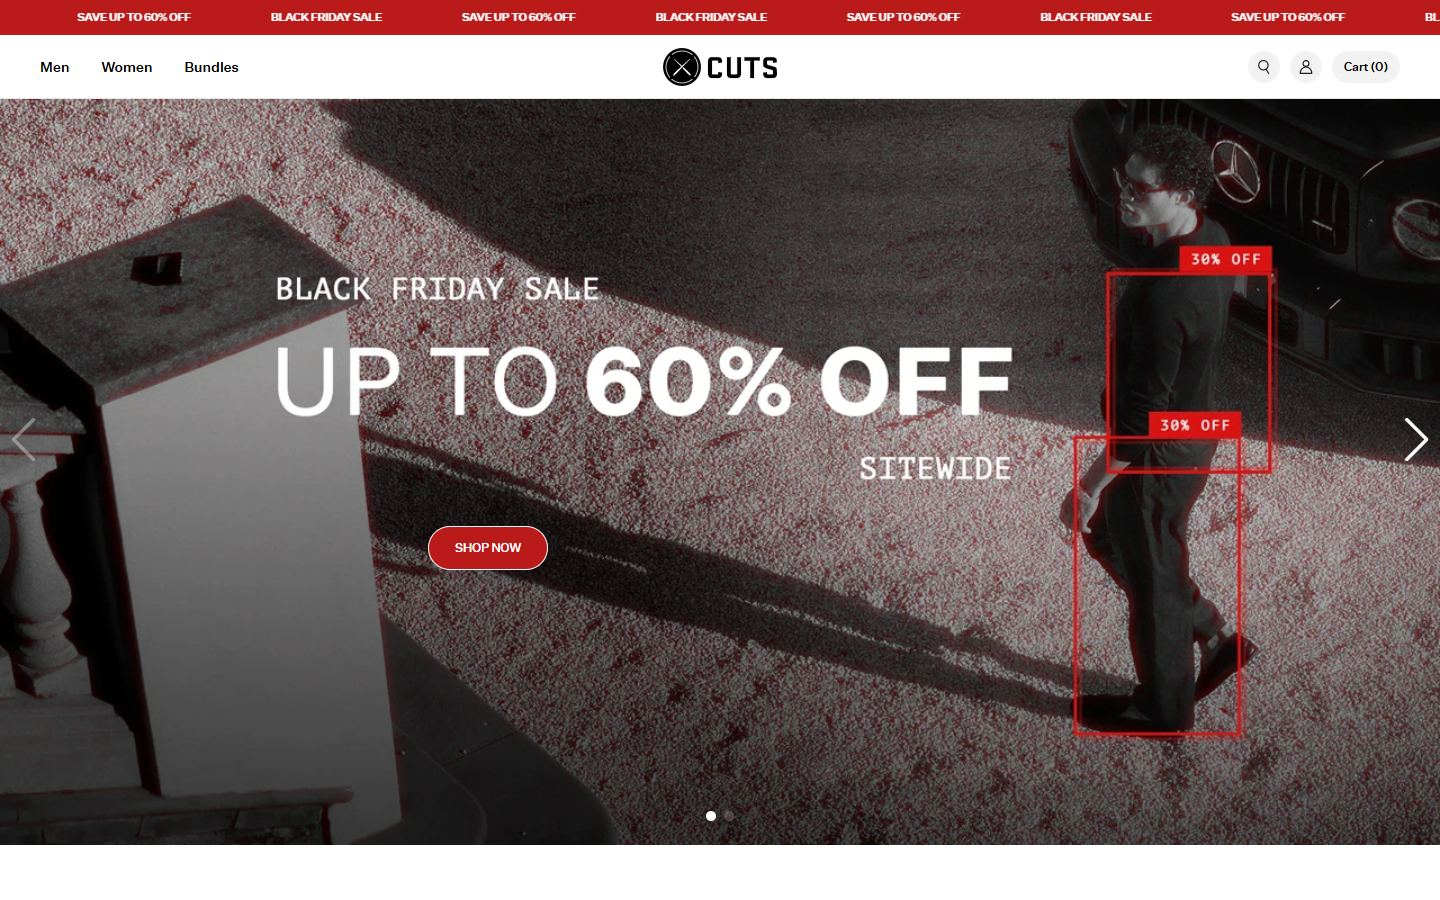
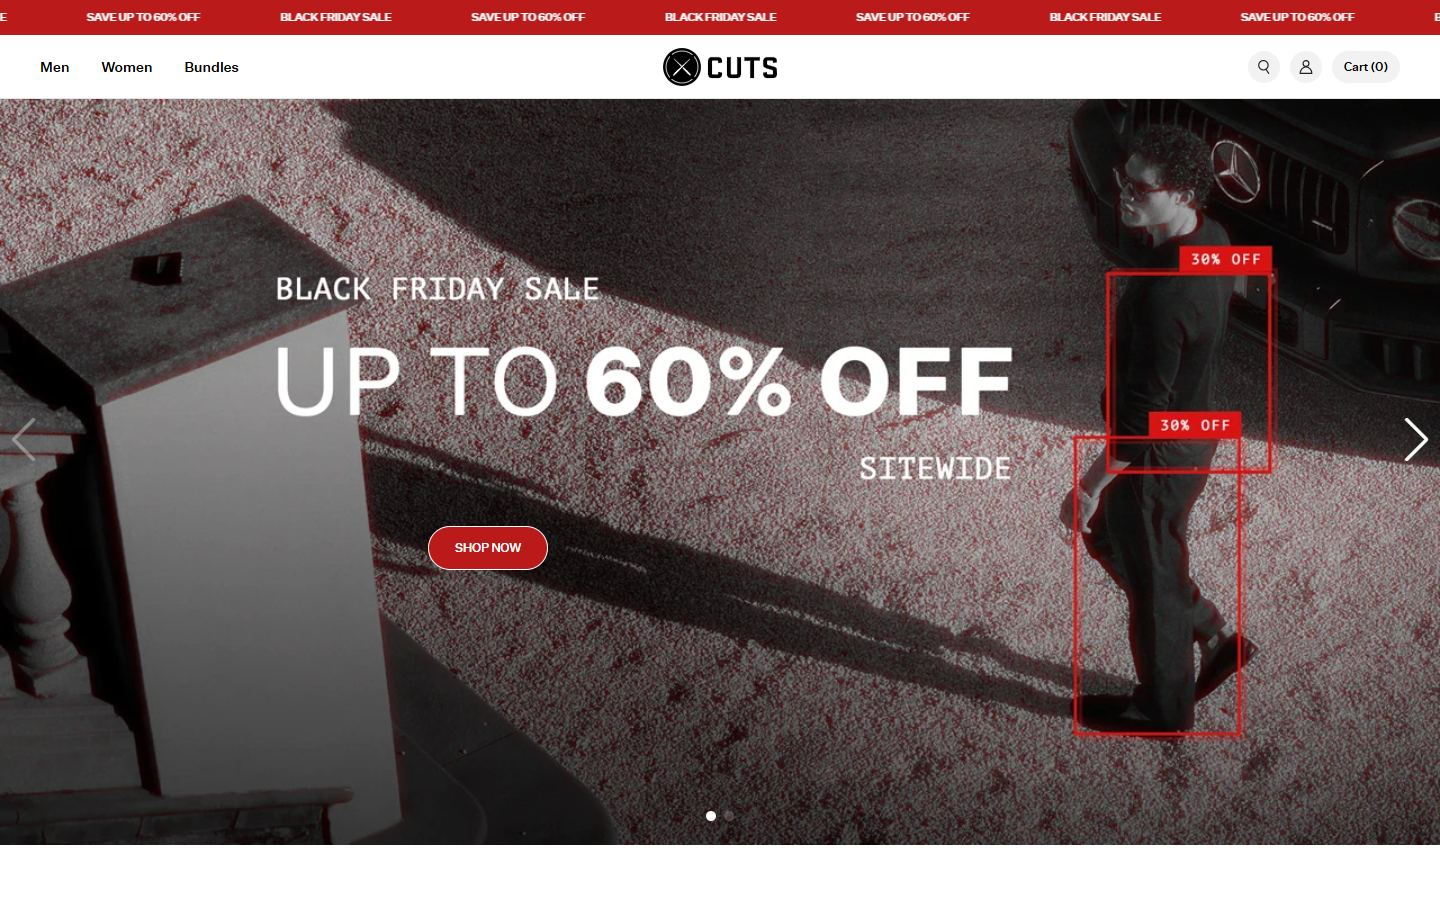
Publish 3 live forensic audit teaser(s)

diff --git a/audits/pactcoffee-com.html b/audits/pactcoffee-com.html
@@ -1,0 +1,79 @@
+<!DOCTYPE html>
+<html lang="en">
+<head>
+  <meta charset="UTF-8" />
+  <meta name="viewport" content="width=device-width, initial-scale=1.0" />
+  <title>Forensic Audit Teaser: pactcoffee.com | NordForge AI Studio</title>
+  <meta name="description" content="Measured Chromium Playwright forensic conversion &amp; speed audit for pactcoffee.com." />
+  <link rel="stylesheet" href="../styles.css" />
+</head>
+<body class="audit-page">
+  <div class="audit-wrap">
+    <div class="audit-nav">
+      <a class="audit-brand-link" href="../index.html">&larr; NordForge AI Studio</a>
+      <span class="audit-badge">Live Chromium Telemetry Audit &bull; 2026-11-22</span>
+    </div>
+
+    <div class="bfcm-alert">
+      <strong>Peak-Traffic Readiness Alert:</strong> Flagged on <code>pactcoffee.com</code> &mdash; 74 external scripts. Fix these leaks before peak holiday traffic hits mobile checkout.
+    </div>
+
+    <h1 class="audit-title">Forensic Conversion &amp; Speed Audit: pactcoffee.com</h1>
+    <p class="audit-subtitle">Target URL: <a href="https://www.pactcoffee.com/" target="_blank" rel="noopener">https://www.pactcoffee.com/</a> &bull; HTTP 200 &bull; Readiness Score: <strong class="audit-score">67/100</strong></p>
+
+    <div class="audit-stats-grid">
+      <div class="audit-stat"><div class="audit-stat-k">DOM Content Loaded</div><div class="audit-stat-v">1211 ms</div></div>
+      <div class="audit-stat"><div class="audit-stat-k">External Scripts</div><div class="audit-stat-v">74</div></div>
+      <div class="audit-stat"><div class="audit-stat-k">3rd-Party Hosts</div><div class="audit-stat-v">33</div></div>
+      <div class="audit-stat"><div class="audit-stat-k">Measured Payload</div><div class="audit-stat-v">5397 KB</div></div>
+      <div class="audit-stat"><div class="audit-stat-k">JSON-LD Schemas</div><div class="audit-stat-v">1</div></div>
+      <div class="audit-stat"><div class="audit-stat-k">Broken / No-Alt Imgs</div><div class="audit-stat-v">0 / 16</div></div>
+      <div class="audit-stat"><div class="audit-stat-k">Mobile Overflow (390px)</div><div class="audit-stat-v">0 px</div></div>
+      <div class="audit-stat"><div class="audit-stat-k">Stack Detected</div><div class="audit-stat-v">Web/DTC</div></div>
+    </div>
+
+    <div class="audit-card">
+      <h2 class="audit-card-title">Top 3 Verified Findings (Measured in Chromium)</h2>
+      <ol class="audit-findings-list">
+        <li>Script &amp; Third-Party Bloat: Measured 74 external scripts across 33 third-party domains (5397 KB transferred), extending DOM load to 1211 ms.</li>
+        <li>Media &amp; Accessibility Gaps: 0 broken image(s) (naturalWidth=0) and 16 image(s) without descriptive alt text detected across 57 DOM images.</li>
+        <li>Render Timing Opportunity: TTFB measured at 375 ms with 1211 ms full load; deferring non-critical embeds and hardening canonical/schema tags reduces checkout drop-off.</li>
+      </ol>
+      <p class="audit-quickwin"><strong>Fastest Engineering Win:</strong> Defer or inline static.hotjar.com, script.hotjar.com and verify Product/Organization JSON-LD + image alt tags.</p>
+    </div>
+
+    <div class="audit-card">
+      <h2 class="audit-card-title">Free Instant Copy-Paste Patch #1 (Yours Free)</h2>
+      <p class="audit-quickwin">Apply this verified snippet right away &mdash; zero strings attached:</p>
+      <pre class="code-preview"><code>/* Free Instant Fix #1 for pactcoffee.com: Safe image &amp; CLS guard */
+img { max-width: 100%; height: auto; }
+/* Audit heavy scripts (74 detected) and move non-critical embeds to defer */</code></pre>
+    </div>
+
+    <div class="audit-card">
+      <h2 class="audit-card-title">Captured Live Viewport Evidence</h2>
+      <div class="audit-shots">
+        <div>
+          <div class="audit-shot-label">Desktop (1440&times;900)</div>
+          <img class="audit-shot-img" src="../assets/pactcoffee-com-desktop.jpg" alt="pactcoffee.com desktop capture" />
+        </div>
+        <div>
+          <div class="audit-shot-label">Mobile (390&times;844)</div>
+          <img class="audit-shot-img" src="../assets/pactcoffee-com-mobile.jpg" alt="pactcoffee.com mobile capture" />
+        </div>
+      </div>
+    </div>
+
+    <div class="audit-cta-box">
+      <h2 class="audit-card-title">Fix pactcoffee.com Today &mdash; Instant Stripe Delivery</h2>
+      <p class="audit-cta-copy">Start with the <strong>$9 Emergency Quick-Win Pack</strong> (instant ZIP in &lt;60 seconds), replace slow monthly apps with our <strong>$29 Native Liquid Kit</strong>, or get the custom <strong>$49 40-Point Fix Pack</strong> built specifically for pactcoffee.com. 14-day honest refund guarantee.</p>
+      <div class="audit-cta-btns">
+        <a class="audit-btn audit-btn-p" href="https://buy.stripe.com/7sYfZggMbcxL6f4gw2cs81o" target="_blank" rel="noopener">Get $9 Quick-Win Pack (Instant) &rarr;</a>
+        <a class="audit-btn audit-btn-o" href="https://buy.stripe.com/28E4gy2Vl41ffPEdjQcs81i" target="_blank" rel="noopener">DIY Shopify Liquid CRO Kit ($29)</a>
+        <a class="audit-btn audit-btn-o" href="https://buy.stripe.com/3cI00i67x69n7j893Acs81l" target="_blank" rel="noopener">Custom 40-Point Fix Pack ($49)</a>
+        <a class="audit-btn audit-btn-o" href="https://buy.stripe.com/bJe5kC2VlbtHgTIbbIcs81m" target="_blank" rel="noopener">Done-For-You 48h Rescue ($199)</a>
+      </div>
+    </div>
+  </div>
+</body>
+</html>

diff --git a/audits/nativecos-com.html b/audits/nativecos-com.html
@@ -15,19 +15,19 @@
     </div>
 
     <div class="bfcm-alert">
-      <strong>Peak-Traffic Readiness Alert:</strong> Flagged on <code>nativecos.com</code> &mdash; 1 broken DOM image(s) • 57 external scripts • 3421ms DOM load. Fix these leaks before peak holiday traffic hits mobile checkout.
+      <strong>Peak-Traffic Readiness Alert:</strong> Flagged on <code>nativecos.com</code> &mdash; 7 broken DOM image(s) • 61 external scripts • 2819ms DOM load. Fix these leaks before peak holiday traffic hits mobile checkout.
     </div>
 
     <h1 class="audit-title">Forensic Conversion &amp; Speed Audit: nativecos.com</h1>
-    <p class="audit-subtitle">Target URL: <a href="https://www.nativecos.com/" target="_blank" rel="noopener">https://www.nativecos.com/</a> &bull; HTTP 200 &bull; Readiness Score: <strong class="audit-score">61/100</strong></p>
+    <p class="audit-subtitle">Target URL: <a href="https://www.nativecos.com/" target="_blank" rel="noopener">https://www.nativecos.com/</a> &bull; HTTP 200 &bull; Readiness Score: <strong class="audit-score">42/100</strong></p>
 
     <div class="audit-stats-grid">
-      <div class="audit-stat"><div class="audit-stat-k">DOM Content Loaded</div><div class="audit-stat-v">3421 ms</div></div>
-      <div class="audit-stat"><div class="audit-stat-k">External Scripts</div><div class="audit-stat-v">57</div></div>
-      <div class="audit-stat"><div class="audit-stat-k">3rd-Party Hosts</div><div class="audit-stat-v">51</div></div>
-      <div class="audit-stat"><div class="audit-stat-k">Measured Payload</div><div class="audit-stat-v">23853 KB</div></div>
+      <div class="audit-stat"><div class="audit-stat-k">DOM Content Loaded</div><div class="audit-stat-v">2819 ms</div></div>
+      <div class="audit-stat"><div class="audit-stat-k">External Scripts</div><div class="audit-stat-v">61</div></div>
+      <div class="audit-stat"><div class="audit-stat-k">3rd-Party Hosts</div><div class="audit-stat-v">52</div></div>
+      <div class="audit-stat"><div class="audit-stat-k">Measured Payload</div><div class="audit-stat-v">28333 KB</div></div>
       <div class="audit-stat"><div class="audit-stat-k">JSON-LD Schemas</div><div class="audit-stat-v">1</div></div>
-      <div class="audit-stat"><div class="audit-stat-k">Broken / No-Alt Imgs</div><div class="audit-stat-v">1 / 37</div></div>
+      <div class="audit-stat"><div class="audit-stat-k">Broken / No-Alt Imgs</div><div class="audit-stat-v">7 / 37</div></div>
       <div class="audit-stat"><div class="audit-stat-k">Mobile Overflow (390px)</div><div class="audit-stat-v">0 px</div></div>
       <div class="audit-stat"><div class="audit-stat-k">Stack Detected</div><div class="audit-stat-v">Shopify</div></div>
     </div>
@@ -35,11 +35,11 @@
     <div class="audit-card">
       <h2 class="audit-card-title">Top 3 Verified Findings (Measured in Chromium)</h2>
       <ol class="audit-findings-list">
-        <li>Script &amp; Third-Party Bloat: Measured 57 external scripts across 51 third-party domains (23853 KB transferred), extending DOM load to 3421 ms.</li>
-        <li>Media &amp; Accessibility Gaps: 1 broken image(s) (naturalWidth=0) and 37 image(s) without descriptive alt text detected across 134 DOM images.</li>
-        <li>Render Timing Opportunity: TTFB measured at 262 ms with 3421 ms full load; deferring non-critical embeds and hardening canonical/schema tags reduces checkout drop-off.</li>
+        <li>Script &amp; Third-Party Bloat: Measured 61 external scripts across 52 third-party domains (28333 KB transferred), extending DOM load to 2819 ms.</li>
+        <li>Media &amp; Accessibility Gaps: 7 broken image(s) (naturalWidth=0) and 37 image(s) without descriptive alt text detected across 134 DOM images.</li>
+        <li>Render Timing Opportunity: TTFB measured at 257 ms with 5406 ms full load; deferring non-critical embeds and hardening canonical/schema tags reduces checkout drop-off.</li>
       </ol>
-      <p class="audit-quickwin"><strong>Fastest Engineering Win:</strong> Defer or inline cdn-widgetsrepository.yotpo.com and verify Product/Organization JSON-LD + image alt tags.</p>
+      <p class="audit-quickwin"><strong>Fastest Engineering Win:</strong> Defer or inline static.rechargecdn.com, cdn-widgetsrepository.yotpo.com and verify Product/Organization JSON-LD + image alt tags.</p>
     </div>
 
     <div class="audit-card">
@@ -47,7 +47,7 @@
       <p class="audit-quickwin">Apply this verified snippet right away &mdash; zero strings attached:</p>
       <pre class="code-preview"><code>/* Free Instant Fix #1 for nativecos.com: Safe image &amp; CLS guard */
 img { max-width: 100%; height: auto; }
-/* Audit heavy scripts (57 detected) and move non-critical embeds to defer */</code></pre>
+/* Audit heavy scripts (61 detected) and move non-critical embeds to defer */</code></pre>
     </div>
 
     <div class="audit-card">

diff --git a/audits/cutsclothing-com.html b/audits/cutsclothing-com.html
@@ -15,19 +15,19 @@
     </div>
 
     <div class="bfcm-alert">
-      <strong>Peak-Traffic Readiness Alert:</strong> Flagged on <code>cutsclothing.com</code> &mdash; 56 external scripts • 2133ms DOM load. Fix these leaks before peak holiday traffic hits mobile checkout.
+      <strong>Peak-Traffic Readiness Alert:</strong> Flagged on <code>cutsclothing.com</code> &mdash; 64 external scripts. Fix these leaks before peak holiday traffic hits mobile checkout.
     </div>
 
     <h1 class="audit-title">Forensic Conversion &amp; Speed Audit: cutsclothing.com</h1>
     <p class="audit-subtitle">Target URL: <a href="https://www.cutsclothing.com/en-no/" target="_blank" rel="noopener">https://www.cutsclothing.com/en-no/</a> &bull; HTTP 200 &bull; Readiness Score: <strong class="audit-score">67/100</strong></p>
 
     <div class="audit-stats-grid">
-      <div class="audit-stat"><div class="audit-stat-k">DOM Content Loaded</div><div class="audit-stat-v">2133 ms</div></div>
-      <div class="audit-stat"><div class="audit-stat-k">External Scripts</div><div class="audit-stat-v">56</div></div>
-      <div class="audit-stat"><div class="audit-stat-k">3rd-Party Hosts</div><div class="audit-stat-v">60</div></div>
-      <div class="audit-stat"><div class="audit-stat-k">Measured Payload</div><div class="audit-stat-v">56023 KB</div></div>
+      <div class="audit-stat"><div class="audit-stat-k">DOM Content Loaded</div><div class="audit-stat-v">1857 ms</div></div>
+      <div class="audit-stat"><div class="audit-stat-k">External Scripts</div><div class="audit-stat-v">64</div></div>
+      <div class="audit-stat"><div class="audit-stat-k">3rd-Party Hosts</div><div class="audit-stat-v">55</div></div>
+      <div class="audit-stat"><div class="audit-stat-k">Measured Payload</div><div class="audit-stat-v">108095 KB</div></div>
       <div class="audit-stat"><div class="audit-stat-k">JSON-LD Schemas</div><div class="audit-stat-v">2</div></div>
-      <div class="audit-stat"><div class="audit-stat-k">Broken / No-Alt Imgs</div><div class="audit-stat-v">0 / 1</div></div>
+      <div class="audit-stat"><div class="audit-stat-k">Broken / No-Alt Imgs</div><div class="audit-stat-v">0 / 0</div></div>
       <div class="audit-stat"><div class="audit-stat-k">Mobile Overflow (390px)</div><div class="audit-stat-v">0 px</div></div>
       <div class="audit-stat"><div class="audit-stat-k">Stack Detected</div><div class="audit-stat-v">Shopify</div></div>
     </div>
@@ -35,9 +35,9 @@
     <div class="audit-card">
       <h2 class="audit-card-title">Top 3 Verified Findings (Measured in Chromium)</h2>
       <ol class="audit-findings-list">
-        <li>Script &amp; Third-Party Bloat: Measured 56 external scripts across 60 third-party domains (56023 KB transferred), extending DOM load to 2133 ms.</li>
-        <li>Render Timing Opportunity: TTFB measured at 770 ms with 2133 ms full load; deferring non-critical embeds and hardening canonical/schema tags reduces checkout drop-off.</li>
-        <li>Render Timing Opportunity: TTFB measured at 770 ms with 2133 ms full load; deferring non-critical embeds and hardening canonical/schema tags reduces checkout drop-off.</li>
+        <li>Script &amp; Third-Party Bloat: Measured 64 external scripts across 55 third-party domains (108095 KB transferred), extending DOM load to 1857 ms.</li>
+        <li>Render Timing Opportunity: TTFB measured at 791 ms with 1857 ms full load; deferring non-critical embeds and hardening canonical/schema tags reduces checkout drop-off.</li>
+        <li>Render Timing Opportunity: TTFB measured at 791 ms with 1857 ms full load; deferring non-critical embeds and hardening canonical/schema tags reduces checkout drop-off.</li>
       </ol>
       <p class="audit-quickwin"><strong>Fastest Engineering Win:</strong> Defer or inline static-tracking.klaviyo.com, static.klaviyo.com and verify Product/Organization JSON-LD + image alt tags.</p>
     </div>
@@ -47,7 +47,7 @@
       <p class="audit-quickwin">Apply this verified snippet right away &mdash; zero strings attached:</p>
       <pre class="code-preview"><code>/* Free Instant Fix #1 for cutsclothing.com: Safe image &amp; CLS guard */
 img { max-width: 100%; height: auto; }
-/* Audit heavy scripts (56 detected) and move non-critical embeds to defer */</code></pre>
+/* Audit heavy scripts (64 detected) and move non-critical embeds to defer */</code></pre>
     </div>
 
     <div class="audit-card">

diff --git a/index.html b/index.html
@@ -373,6 +373,36 @@ html, body { max-width: 100%; overflow-x: clip; }
         <!-- LIVE_AUDITS_START -->
         <div class="audit-item">
           <div class="audit-item-head">
+            <strong>pactcoffee.com</strong>
+            <span class="tag">67/100</span>
+          </div>
+          <p class="audit-item-meta">
+            DOM 1211ms &bull; 74 scripts &bull; 5397 KB &bull; 1 schemas
+          </p>
+          <a class="audit-item-link" href="audits/pactcoffee-com.html">Inspect Live Teaser &rarr;</a>
+        </div>
+        <div class="audit-item">
+          <div class="audit-item-head">
+            <strong>nativecos.com</strong>
+            <span class="tag">42/100</span>
+          </div>
+          <p class="audit-item-meta">
+            DOM 2819ms &bull; 61 scripts &bull; 28333 KB &bull; 1 schemas
+          </p>
+          <a class="audit-item-link" href="audits/nativecos-com.html">Inspect Live Teaser &rarr;</a>
+        </div>
+        <div class="audit-item">
+          <div class="audit-item-head">
+            <strong>cutsclothing.com</strong>
+            <span class="tag">67/100</span>
+          </div>
+          <p class="audit-item-meta">
+            DOM 1857ms &bull; 64 scripts &bull; 108095 KB &bull; 2 schemas
+          </p>
+          <a class="audit-item-link" href="audits/cutsclothing-com.html">Inspect Live Teaser &rarr;</a>
+        </div>
+        <div class="audit-item">
+          <div class="audit-item-head">
             <strong>byltbasics.com</strong>
             <span class="tag">84/100</span>
           </div>
@@ -400,36 +430,6 @@ html, body { max-width: 100%; overflow-x: clip; }
             DOM 2022ms &bull; 63 scripts &bull; 4193 KB &bull; 0 schemas
           </p>
           <a class="audit-item-link" href="audits/tentree-com.html">Inspect Live Teaser &rarr;</a>
-        </div>
-        <div class="audit-item">
-          <div class="audit-item-head">
-            <strong>mightytiga.com.au</strong>
-            <span class="tag">55/100</span>
-          </div>
-          <p class="audit-item-meta">
-            DOM 1685ms &bull; 71 scripts &bull; 28039 KB &bull; 3 schemas
-          </p>
-          <a class="audit-item-link" href="audits/mightytiga-com-au.html">Inspect Live Teaser &rarr;</a>
-        </div>
-        <div class="audit-item">
-          <div class="audit-item-head">
-            <strong>off---record.com</strong>
-            <span class="tag">67/100</span>
-          </div>
-          <p class="audit-item-meta">
-            DOM 2057ms &bull; 90 scripts &bull; 3422 KB &bull; 4 schemas
-          </p>
-          <a class="audit-item-link" href="audits/off-record-com.html">Inspect Live Teaser &rarr;</a>
-        </div>
-        <div class="audit-item">
-          <div class="audit-item-head">
-            <strong>theboozybakingcompany.com</strong>
-            <span class="tag">75/100</span>
-          </div>
-          <p class="audit-item-meta">
-            DOM 1498ms &bull; 34 scripts &bull; 240506 KB &bull; 2 schemas
-          </p>
-          <a class="audit-item-link" href="audits/theboozybakingcompany-com.html">Inspect Live Teaser &rarr;</a>
         </div>
         <!-- LIVE_AUDITS_END -->
       </div>
